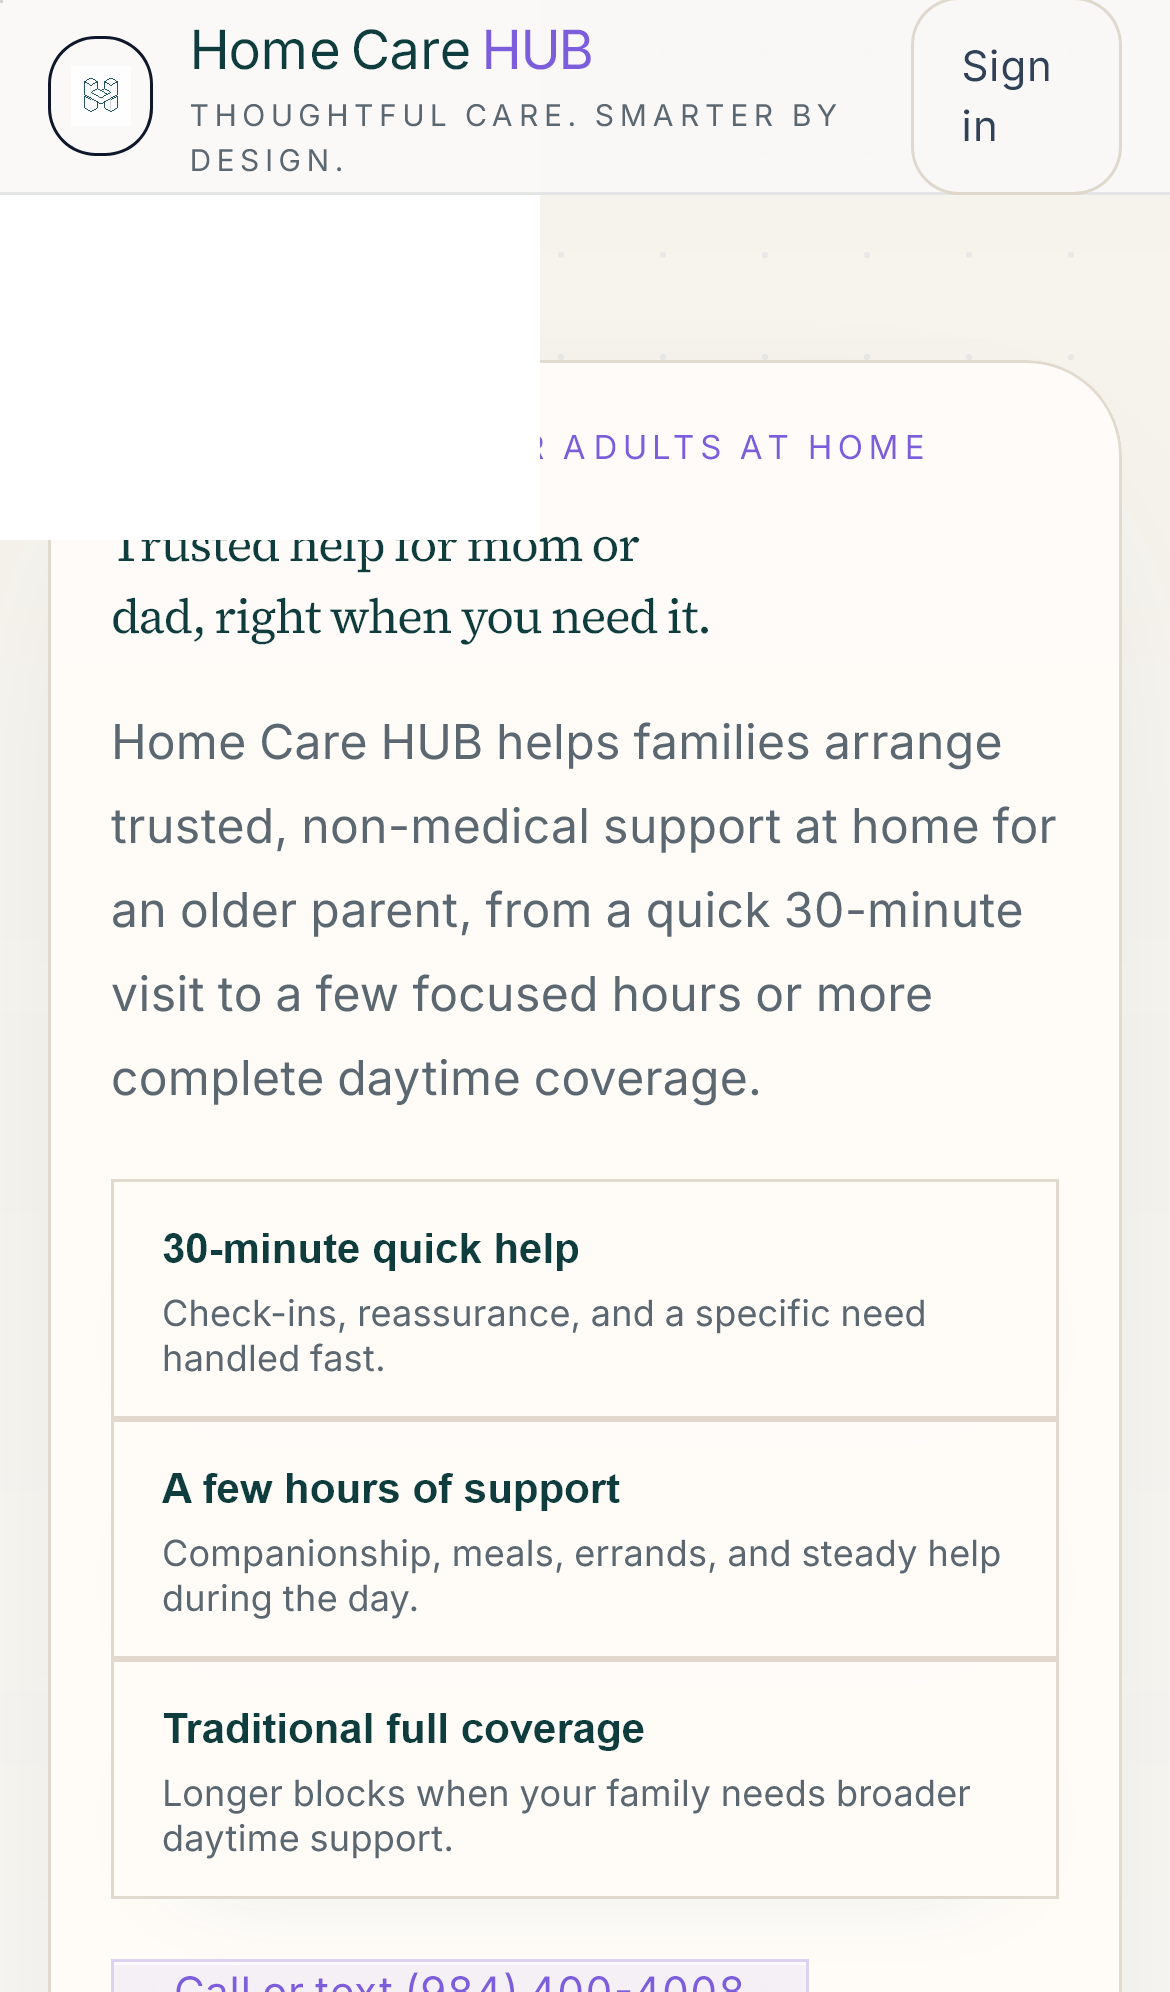
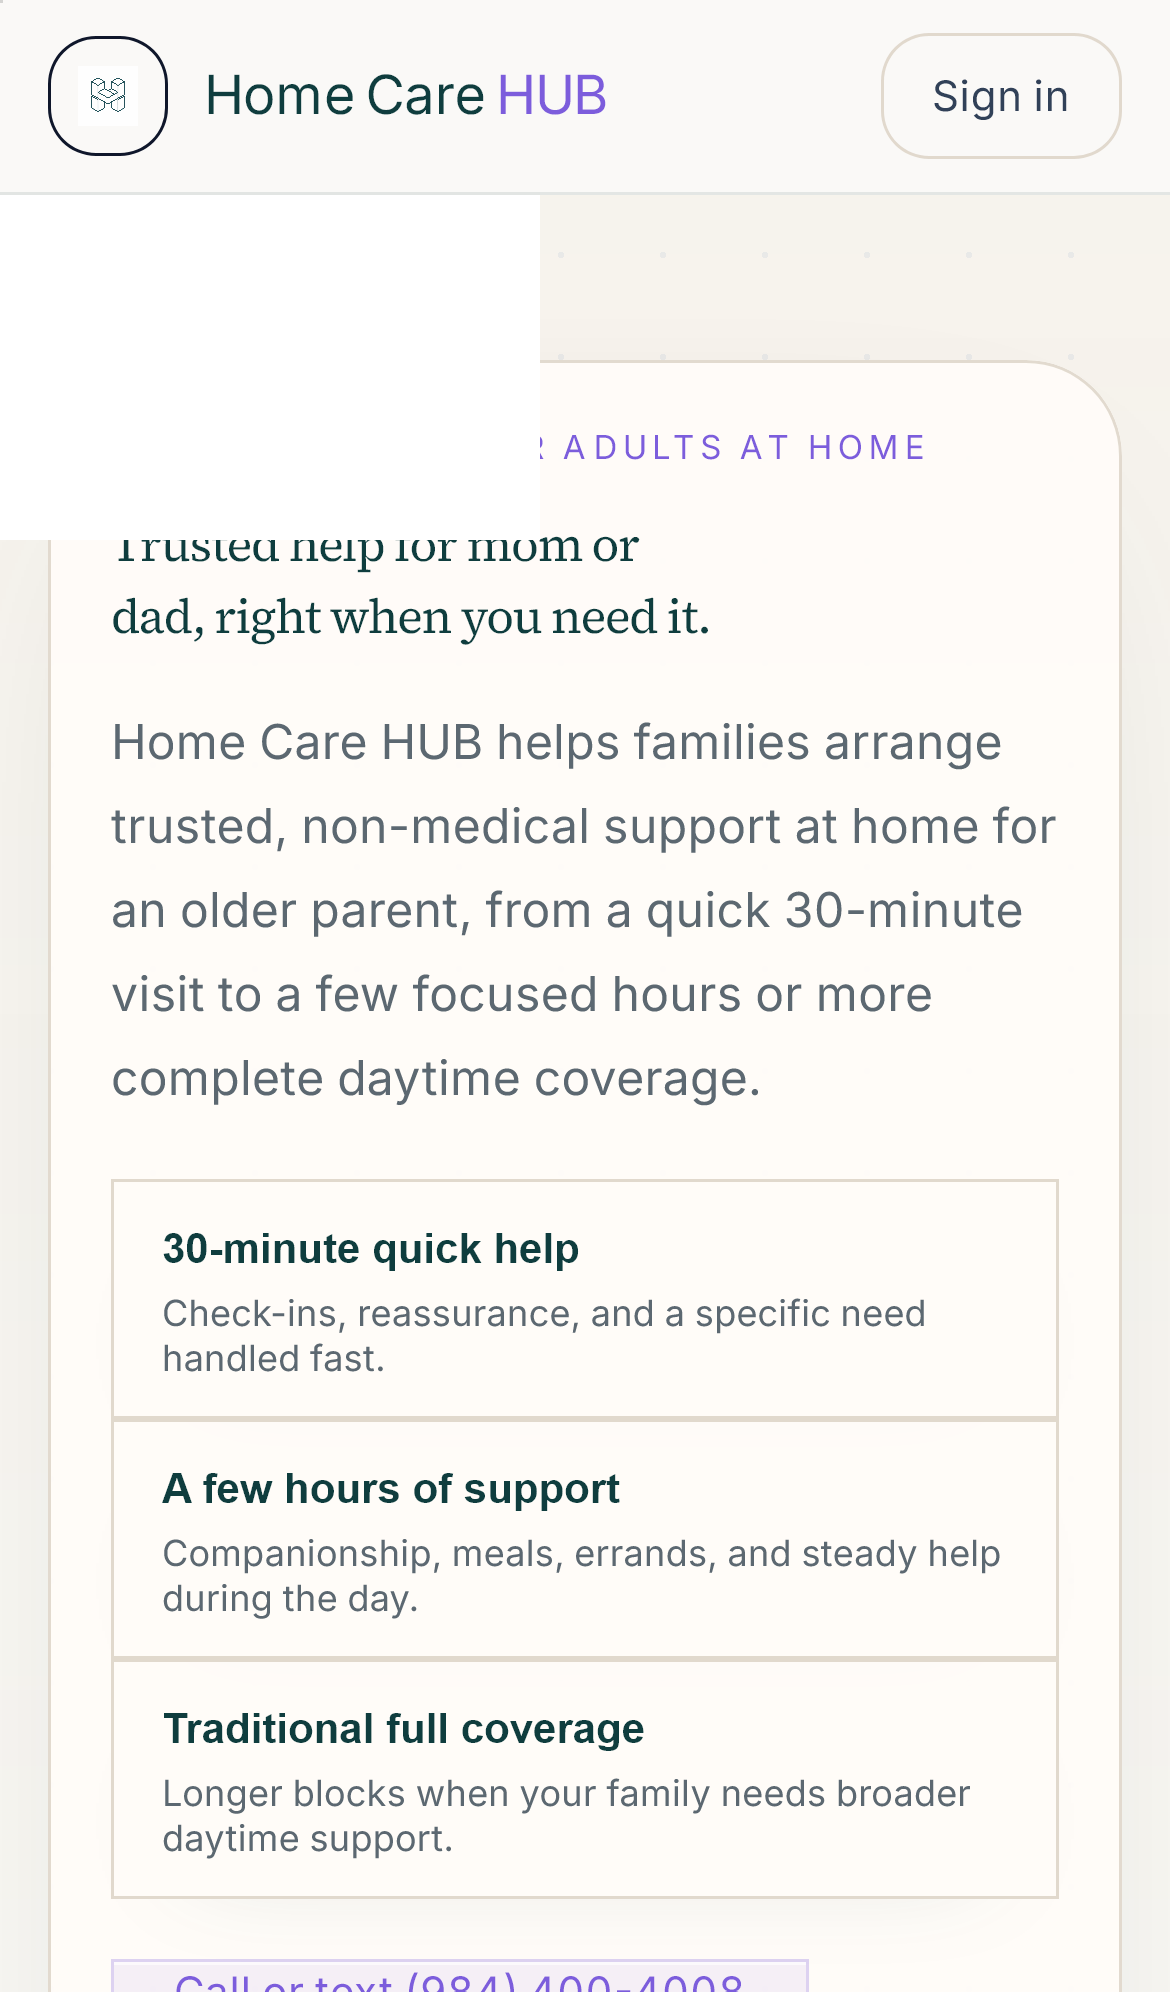
0

diff --git a/resources/views/livewire/family-landing.blade.php b/resources/views/livewire/family-landing.blade.php
@@ -200,9 +200,12 @@
 
             <a href="{{ route('landing') }}" class="flex items-center gap-3">
 
-                <div class="flex h-10 w-10 items-center justify-center rounded-2xl border border-[#DED6CA] bg-[#FFFCF8] shadow-lg"><x-application-logo class="h-5 w-5 text-[#0F3D3E]" /></div>
+                <div class="flex h-10 w-10 items-center justify-center rounded-2xl border border-[#DED6CA] bg-[#FFFCF8] shadow-lg sm:h-11 sm:w-11"><x-application-logo class="h-5 w-5 text-[#0F3D3E]" /></div>
 
-                <div><span class="block text-lg font-extrabold tracking-tight text-slate-950 sm:text-xl">Home Care <span class="text-blue-600">HUB</span></span><span class="block text-[10px] font-semibold uppercase tracking-[0.18em] text-slate-500 sm:text-[11px]">Thoughtful care. Smarter by design.</span></div>
+                <div>
+                    <span class="block text-lg font-extrabold tracking-tight text-slate-950 sm:text-xl">Home Care <span class="text-blue-600">HUB</span></span>
+                    <span class="hidden text-[10px] font-semibold uppercase tracking-[0.18em] text-slate-500 sm:block sm:text-[11px]">Thoughtful care. Smarter by design.</span>
+                </div>
 
             </a>
 
@@ -230,7 +233,7 @@
 
             <div class="flex items-center gap-2 md:hidden">
 
-                <a href="{{ route('login') }}" class="min-w-[108px] rounded-2xl border border-slate-200 px-4 py-3 text-sm font-bold text-slate-700">
+                <a href="{{ route('login') }}" class="min-w-[92px] rounded-2xl border border-slate-200 px-4 py-2.5 text-sm font-bold text-slate-700">
 
                     Sign in
 
@@ -247,26 +250,27 @@
     <section class="bg-grid hero-gradient px-4 pb-16 pt-28 sm:px-6 sm:pb-24 sm:pt-40">
 
         <div class="mx-auto max-w-7xl">
+            <div class="grid gap-6 xl:grid-cols-[minmax(0,1.05fr)_minmax(420px,0.95fr)] xl:items-start">
 
-            <div class="hub-hero-card reveal active mt-2 max-w-3xl rounded-[2rem] p-5 text-left backdrop-blur sm:mx-auto sm:mt-0 sm:p-8">
+            <div class="hub-hero-card reveal active mt-2 rounded-[2rem] p-5 text-left backdrop-blur sm:mt-0 sm:p-8 xl:p-10">
 
                 <p class="hub-hero-eyebrow text-[11px] font-extrabold sm:text-xs">
                     Support for older adults at home
                 </p>
 
-                <h1 class="mt-3 max-w-[12ch] text-balance text-[2.05rem] leading-[1] tracking-[-0.05em] text-slate-950 sm:mt-5 sm:max-w-3xl sm:text-center sm:text-5xl">
+                <h1 class="mt-3 max-w-[12ch] text-balance text-[2.05rem] leading-[1] tracking-[-0.05em] text-slate-950 sm:mt-5 sm:max-w-3xl sm:text-center sm:text-5xl xl:max-w-[11ch] xl:text-left xl:text-[4.35rem]">
 
                     Trusted help for mom or dad, right when you need it.
 
                 </h1>
 
-                <p class="mt-4 max-w-2xl text-[1rem] font-medium leading-7 text-slate-600 sm:mx-auto sm:mt-5 sm:text-center sm:text-[1.08rem] sm:leading-relaxed sm:text-slate-500">
+                <p class="mt-4 max-w-2xl text-[1rem] font-medium leading-7 text-slate-600 sm:mx-auto sm:mt-5 sm:text-center sm:text-[1.08rem] sm:leading-relaxed sm:text-slate-500 xl:mx-0 xl:text-left">
 
                     Home Care HUB helps families arrange trusted, non-medical support at home for an older parent, from a quick 30-minute visit to a few focused hours or more complete daytime coverage.
 
                 </p>
 
-                <div class="mt-5 grid gap-2.5 sm:mt-6 sm:grid-cols-3">
+                <div class="mt-5 grid gap-2.5 sm:mt-6 sm:grid-cols-3 xl:mt-8">
 
                     <div class="hub-range-card rounded-[1.35rem] px-4 py-3">
                         <strong class="text-sm">30-minute quick help</strong>
@@ -285,13 +289,13 @@
 
                 </div>
 
-                <div class="mt-5 flex flex-col items-start gap-3 sm:mt-6 sm:items-center">
+                <div class="mt-5 flex flex-col items-start gap-3 sm:mt-6 sm:items-center xl:items-start">
                     <a href="tel:9844004008" class="hub-contact-chip inline-flex min-h-12 items-center justify-center rounded-[1.1rem] px-5 text-sm font-bold transition-all hover:bg-[#7C5DDC]/15 sm:min-h-11">
 
                         Call or text (984) 400-4008
 
                     </a>
-                    <p class="text-sm font-medium text-slate-500 sm:text-center">
+                    <p class="text-sm font-medium text-slate-500 sm:text-center xl:text-left">
                         For families who need trusted support quickly, without agency runaround.
                     </p>
                 </div>
@@ -306,9 +310,16 @@
 
 
 
-            <div class="mt-8 max-w-3xl xl:mt-12">
+            <div class="hub-request-stack mt-2 xl:mt-0">
 
                 <div class="reveal order-1 xl:order-1">
+                    <div class="mb-3 hidden xl:flex xl:items-center xl:justify-between xl:px-1">
+                        <div>
+                            <p class="text-[11px] font-extrabold uppercase tracking-[0.18em] text-[#7C5DDC]">Start in minutes</p>
+                            <p class="mt-1 text-sm font-semibold text-slate-500">Share the basics now. We will guide the rest step by step.</p>
+                        </div>
+                        <a href="tel:9844004008" class="text-sm font-bold text-[#7C5DDC] hover:text-[#0F3D3E]">Call (984) 400-4008</a>
+                    </div>
 
                     <livewire:family.homepage-quick-request />
 
@@ -329,8 +340,8 @@
                     </div>
 
                 </div>
-                </div>
 
+            </div>
             </div>
 
         

diff --git a/resources/views/marketing/family.blade.php b/resources/views/marketing/family.blade.php
@@ -99,6 +99,10 @@
         box-shadow: inset 0 1px 0 rgba(255, 255, 255, 0.65);
     }
 
+    .hub-family-landing .hub-request-stack {
+        position: relative;
+    }
+
     .hub-family-landing .hub-trust-row {
         display: grid;
         gap: 0.75rem;
@@ -233,6 +237,20 @@
     @media (min-width: 640px) {
         .hub-family-landing .hub-trust-row {
             grid-template-columns: repeat(3, minmax(0, 1fr));
+        }
+    }
+
+    @media (max-width: 639px) {
+        .hub-family-landing .glass-nav {
+            backdrop-filter: none;
+            background: rgba(250, 249, 247, 0.98);
+        }
+    }
+
+    @media (min-width: 1280px) {
+        .hub-family-landing .hub-request-stack {
+            position: sticky;
+            top: 7.5rem;
         }
     }
 </style>
